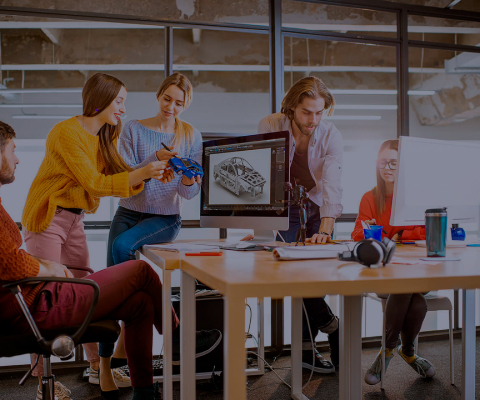
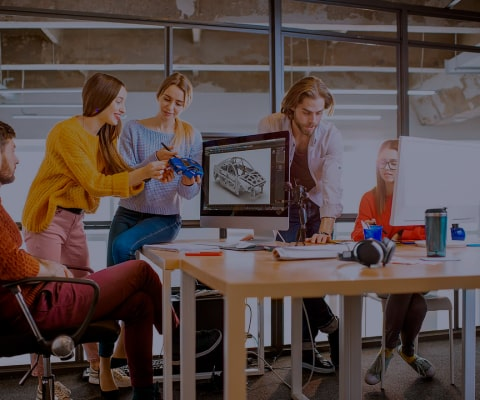
adds responsive background image

Changed region(s): [[0.3438, 0.39, 0.4375, 0.45], [0.75, 0.54, 0.8125, 0.6]]

diff --git a/css/main.min.css b/css/main.min.css
@@ -1,2 +1,2 @@
-body{font-family:'Roboto', sans-serif;background-color:#fff;color:#212121}.list{list-style:none;padding:0;margin:0}.link{text-decoration:none}img{display:block;max-width:100%;height:auto}p,h1,h2,h3,h4,h5,h6{margin-top:0;margin-bottom:0}ul{margin-top:0;margin-bottom:0;padding-left:0}.btn{font-weight:700;font-size:16px;line-height:1.875;letter-spacing:.06em;border:none;border-radius:4px;background-color:#2196f3;color:#fff;cursor:pointer}.menu-toggle{display:flex;align-items:center;margin:0;margin-left:auto;padding:0;background-color:transparent;cursor:pointer;border:none;border-radius:50%;outline:none}@media (min-width: 768px){.menu-toggle{display:none}}.menu-toggle:hover,.menu-toggle:focus{fill:#2196f3}.menu-container{position:fixed;top:0;left:0;width:100vw;height:100vh;padding:48px 40px;background-color:#ffffff;z-index:999;transform:translateX(-200%);transition:transform 250ms ease-in-out}.menu-container.is-open{transform:translateX(0)}.menu-container .menu-toggle{position:absolute;top:21px;right:25px;fill:#212121}.mobile-menu-nav{margin-bottom:302px}.mobile-menu-nav__item:not(:last-child){margin-bottom:32px}.mobile-menu-nav__link{font-weight:500;font-size:40px;line-height:1.175;letter-spacing:.02em;color:#212121}.mobile-menu-nav__link:hover,.mobile-menu-nav__link:focus{color:#2196f3}.mobile-menu-contacts{margin-bottom:64px}.mobile-menu-contacts__item:not(:last-child){margin-bottom:32px}.mobile-menu-contacts__tel{font-weight:500;font-size:34px;line-height:1.17647;letter-spacing:.02em;color:#2196f3}.mobile-menu-contacts__email{font-weight:500;font-size:24px;line-height:1.16667;letter-spacing:.02em;color:#757575}.mobile-menu-social{display:flex;flex-wrap:wrap;margin:-10px}.mobile-menu-social__item{padding:0 10px}.mobile-menu-social__item:not(:last-child){border-right:1px solid rgba(33,33,33,0.2)}.mobile-menu-social__link{font-weight:500;font-size:18px;line-height:1.22222;letter-spacing:.02em;color:#2196f3}.social__title{font-weight:700;font-size:14px;line-height:1.14286;letter-spacing:.03em;text-transform:uppercase;color:#fff;margin:0;margin-bottom:20px}.social__list{display:flex}@media screen and (max-width: 1199px){.social__list{justify-content:center}}.social__item+.social__item{margin-left:10px}.social__link{display:flex;justify-content:center;align-items:center;width:44px;height:44px;border-radius:50%;fill:#afb1b8;transition:background-color 250ms cubic-bezier(0.4, 0, 0.2, 1),fill 250ms cubic-bezier(0.4, 0, 0.2, 1)}.social__link:hover,.social__link:focus{fill:#fff;background-color:#2196f3}.social__link--bg{background-color:rgba(255,255,255,0.1)}.social__logo{fill:#fff}.container{margin-left:auto;margin-right:auto;padding-left:15px;padding-right:15px}@media screen and (min-width: 480px){.container{width:480px}}@media screen and (min-width: 768px){.container{width:768px}}@media screen and (min-width: 1200px){.container{width:1200px}}.section{padding-top:60px;padding-bottom:60px}@media screen and (min-width: 1200px){.section{padding-top:94px;padding-bottom:94px}}.section__title{color:#212121;text-align:center}@media screen and (max-width: 1199px){.section__title{margin-bottom:30px;font-weight:700;font-size:28px;line-height:1.17857;letter-spacing:.03em}}@media screen and (min-width: 1200px){.section__title{margin-bottom:50px;font-weight:700;font-size:36px;line-height:1.16667;letter-spacing:.03em}}.header{border-bottom:1px solid #ececec}@media screen and (max-width: 767px){.header{min-height:60px}}.header .container{display:flex;align-items:center}.header__navigation{display:flex;align-items:center}.logo{font-weight:700;font-size:26px;line-height:1.19231;letter-spacing:.03em;padding-top:20px;padding-bottom:20px;font-family:'Raleway', sans-serif}@media screen and (max-width: 1199px){.logo{font-weight:700;font-size:24px;line-height:1.16667;letter-spacing:.03em}}.header__logo{color:#000}.header__logo--accent{color:#2196f3}.footer__logo{color:#ffffff}.site-nav{display:flex;margin-left:93px}@media screen and (max-width: 767px){.site-nav{display:none}}.site-nav .current{color:#2196f3}.site-nav__link{font-weight:500;font-size:14px;line-height:1.14286;letter-spacing:.02em;display:block;color:#212121;padding-top:32px;padding-bottom:32px;transition:color 250ms cubic-bezier(0.4, 0, 0.2, 1)}.site-nav__link:hover,.site-nav__link:focus{color:#2196f3}.site-nav__link.current::after{content:'';position:absolute;bottom:-1.5px;left:0;display:block;width:100%;height:4px;border-radius:2px;background-color:#2196f3}.site-nav__items{position:relative}.site-nav__items:not(:last-child){margin-right:50px}.site-contacts{margin:0;margin-left:auto}@media screen and (max-width: 767px){.site-contacts{display:none}}@media screen and (min-width: 768px){.site-contacts{display:block}}@media screen and (min-width: 1200px){.site-contacts{display:flex}}.site-contacts__link{font-weight:500;font-size:14px;line-height:1.14286;letter-spacing:.02em;color:#757575;display:flex;align-items:center;padding-top:32px;padding-bottom:32px;transition:color 250ms cubic-bezier(0.4, 0, 0.2, 1)}.site-contacts__link:hover,.site-contacts__link:focus{color:#2196f3}@media screen and (max-width: 1199px){.site-contacts__link{padding-top:5px;padding-bottom:5px}}@media screen and (min-width: 1200px){.site-contacts__items:not(:last-child){margin-right:50px}}.site-contacts__icon{margin-right:10px;fill:currentColor}.hero{margin:0;margin-right:auto;margin-left:auto;padding-top:118px;padding-bottom:118px;max-width:1600px;text-align:center;background-image:linear-gradient(to right, rgba(47,48,58,0.4), rgba(47,48,58,0.4)),url(../images/hero-img-mob@1x.jpg);background-size:cover}@media (min-device-pixel-ratio: 2), (-webkit-min-device-pixel-ratio: 2), (min-resolution: 192dpi), (min-resolution: 2dppx){.hero{background-image:url(../images/hero-img-mob@2x.jpg)}}@media screen and (min-width: 1200px){.hero{padding-top:200px;padding-bottom:200px;background-image:linear-gradient(to right, rgba(47,48,58,0.4), rgba(47,48,58,0.4)),url(../images/hero-img-desk@1x.jpg)}}@media (min-device-pixel-ratio: 2), (-webkit-min-device-pixel-ratio: 2), (min-resolution: 192dpi), (min-resolution: 2dppx){.hero{background-image:url(../images/hero-img-desk@2x.jpg)}}.hero__title{font-weight:900;font-size:26px;line-height:1.61538;letter-spacing:.06em;color:#fff;text-transform:uppercase;margin:0 auto;margin-bottom:30px}@media screen and (min-width: 480px){.hero__title{width:360px}}@media screen and (min-width: 1200px){.hero__title{font-weight:900;font-size:44px;line-height:1.36364;letter-spacing:.06em;width:696px}}.hero__btn{padding:10px 32px}.backdrop{position:fixed;top:0;left:0;z-index:1;width:100%;height:100%;background-color:rgba(0,0,0,0.2)}.backdrop.is-hidden{opacity:0;pointer-events:none;visibility:hidden}.modal{position:absolute;top:50%;left:50%;transform:translate(-50%, -50%);width:90%;background-color:#fff;box-shadow:0px 1px 3px rgba(0,0,0,0.12),0px 1px 1px rgba(0,0,0,0.14),0px 2px 1px rgba(0,0,0,0.2);border-radius:4px}@media screen and (min-width: 480px), (min-width: 768px){.modal{max-width:450px}}@media screen and (min-width: 1200px){.modal{max-width:528px}}.modal__close-btn{position:absolute;top:8px;right:8px;display:flex;align-items:center;justify-content:center;margin:0;padding:0;width:30px;height:30px;border:1px solid rgba(0,0,0,0.1);border-radius:50%;cursor:pointer;background-color:unset;transition:fill 250ms cubic-bezier(0.4, 0, 0.2, 1)}.modal__close-btn:hover,.modal__close-btn:focus{fill:#2196f3}.modal-form{margin-left:auto;margin-right:auto;display:flex;flex-direction:column;justify-content:center;padding:40px}.modal-form__titel{font-weight:700;font-size:20px;line-height:1.15;letter-spacing:.03em;display:block;text-align:center;margin-bottom:12px}.modal-form__lable{font-weight:400;font-size:12px;line-height:1.16667;letter-spacing:.01em;display:block;font-style:normal;color:#757575;margin-bottom:4px}.form-wrap{position:relative;display:block;width:100%;margin-bottom:10px}.modal-form__input{display:block;width:100%;padding:11px 12px 11px 42px;border:1px solid rgba(33,33,33,0.2);box-sizing:border-box;border-radius:4px;transition:border-color 250ms cubic-bezier(0.4, 0, 0.2, 1)}.modal-form__input:focus{outline:none;border-color:#2196f3}.modal-form__icon{position:absolute;top:50%;left:12px;transform:translateY(-50%);fill:#212121;transition:fill 250ms cubic-bezier(0.4, 0, 0.2, 1)}.modal-form__input:focus+.modal-form__icon{fill:#2196f3}.modal-form__textarea{border:1px solid rgba(33,33,33,0.2);box-sizing:border-box;border-radius:4px;resize:none;width:100%;height:120px;margin-bottom:20px;padding:12px 16px}.modal-form__textarea::placeholder{font-weight:400;font-size:12px;line-height:1.16667;letter-spacing:.01em;color:rgba(117,117,117,0.5)}.modal-form__textarea:focus{outline:none;border-color:#2196f3}.modal-form__checkbox{display:flex;justify-content:center;align-items:center;margin-bottom:30px}.modal-form__checkbox-icon{min-width:16px;min-height:15px;border-radius:2px;border:2px solid #212121}.modal-form__checkbox-input:checked+.modal-form__checkbox-icon{border:none;background-color:#2196f3}.modal-form__checkbox-input{-webkit-appearance:none;-moz-appearance:none;appearance:none;position:absolute}.modal-form__checkbox-lable{font-weight:400;font-size:14px;line-height:1.71429;letter-spacing:.03em;color:#757575;margin-left:8px}.modal-form__checkbox-lable--accent{color:#2196f3}.form-btn{display:block;margin-right:auto;margin-left:auto;padding:10px 55px;box-shadow:0px 4px 4px rgba(0,0,0,0.15)}.quality{padding-top:60px;padding-bottom:60px}@media screen and (min-width: 1200px){.quality{padding-top:94px;padding-bottom:0}}.quality__title--hidden{position:absolute;width:1px;height:1px;margin:-1px;padding:0;overflow:hidden;border:0;clip:rect(0 0 0 0)}.quality__list{display:flex;flex-wrap:wrap}@media screen and (min-width: 768px){.quality__list{margin:-15px}}@media screen and (max-width: 767px){.quality__item:not(:last-child){margin-bottom:30px}}@media screen and (min-width: 768px){.quality__item{flex-basis:calc((100% - 2 * 30px) / 2);margin:15px}}@media screen and (min-width: 1200px){.quality__item{flex-basis:calc((100% - 4 * 30px) / 4);margin-left:15px}}.quality__container{height:120px;margin-bottom:30px;border-radius:4px;background-color:#f5f4fa;display:flex;justify-content:center;align-items:center;transition:box-shadow 250ms cubic-bezier(0.4, 0, 0.2, 1)}.quality__container:hover,.quality__container:focus{box-shadow:0px 4px 4px rgba(0,0,0,0.25)}.quality__title{margin:0;text-transform:uppercase;margin-bottom:10px}.quality__title{font-weight:700;font-size:14px;line-height:1.14286;letter-spacing:.03em;color:#212121}.quality__description{font-weight:400;font-size:14px;line-height:1.71429;letter-spacing:.03em;margin:0;color:#757575}@media screen and (max-width: 1199px){.activity{display:none}}.activity__list{display:flex;flex-wrap:wrap;margin-right:calc(-1 * 30px)}.activity__item{flex-basis:calc(100% / 3 - 30px);margin-right:30px}.activity__wrap{position:relative}.activity__wrap-text{font-weight:700;font-size:14px;line-height:1.14286;letter-spacing:.03em;position:absolute;left:0;bottom:0;width:100%;background-color:rgba(47,48,58,0.8);text-transform:uppercase;margin:0;padding-top:27px;padding-bottom:27px;text-align:center;color:#fff}.team__section{background-color:#f5f4fa}@media screen and (min-width: 768px){.team__list{display:flex;flex-wrap:wrap;margin:-15px}}.team__item{background-color:#fff;box-shadow:0px 1px 3px rgba(0,0,0,0.12),0px 1px 1px rgba(0,0,0,0.14),0px 2px 1px rgba(0,0,0,0.2);border-radius:0px 0px 4px 4px}@media screen and (max-width: 767px){.team__item{margin-bottom:30px}}@media screen and (min-width: 768px){.team__item{flex-basis:calc((100% - 2 * 30px) / 2);margin:15px}}@media screen and (min-width: 1200px){.team__item{flex-basis:calc((100% - 4 * 30px) / 4);margin:15px}}.team__name{font-weight:500;font-size:16px;line-height:1.1875;letter-spacing:.03em;margin:0;padding-top:30px;padding-bottom:10px;color:#212121;text-align:center}.team__post{font-weight:400;font-size:16px;line-height:1.1875;letter-spacing:.03em;margin:0;padding-bottom:16px;color:#757575;text-align:center}.client__list{margin:-15px;display:flex;flex-wrap:wrap}@media screen and (max-width: 1199px){.client__list{margin:-15px;flex-wrap:wrap}}@media screen and (max-width: 767px){.client__item{margin:15px;flex-basis:calc(100% / 2 - 30px)}}@media screen and (min-width: 768px) and (max-width: 1199px){.client__item{margin:15px;flex-basis:calc(100% / 3 - 30px)}}@media screen and (min-width: 1200px){.client__item:not(:last-child){margin-right:30px}}.client__link{display:flex;justify-content:center;align-items:center;height:92px;color:#afb1b8;border:1px solid #afb1b8;border-radius:4px;transition:color 250ms cubic-bezier(0.4, 0, 0.2, 1),border-color 250ms cubic-bezier(0.4, 0, 0.2, 1)}.client__link:hover,.client__link:focus{color:#2196f3;border-color:#2196f3}@media screen and (min-width: 480px){.client__link{width:210px}}@media screen and (min-width: 768px){.client__link{width:226px}}@media screen and (min-width: 1200px){.client__link{width:170px}}.client__icon{fill:currentColor}.footer{background-color:#2f303a}.footer .container{display:flex;padding-bottom:60px}@media screen and (max-width: 767px){.footer .container{display:block}}@media screen and (min-width: 768px){.footer .container{display:flex;flex-wrap:wrap}}@media screen and (min-width: 1200px){.footer .container{padding-bottom:0}}.address-block{padding:60px 0 60px 0}@media screen and (max-width: 1199px){.address-block{text-align:center;margin:0 auto}}.address{margin-top:20px}.address__item:not(:last-child){margin-bottom:8px}@media screen and (min-width: 1200px){.address__item:not(:last-child){margin-bottom:9px}}.address__link,.address__link--transparency{font-weight:400;font-size:14px;line-height:1.71429;letter-spacing:.03em;margin-top:20px;transition:color 250ms cubic-bezier(0.4, 0, 0.2, 1)}.address__link:hover,.address__link--transparency:hover,.address__link:focus,.address__link--transparency:focus{color:#2196f3}.address__link{color:#fff}.address__link--transparency{color:rgba(255,255,255,0.6)}.social--position{display:flex;justify-content:center;padding-bottom:30px}.social-footer{padding-bottom:60px;text-align:center}@media screen and (min-width: 768px) and (max-width: 1199px){.social-footer{margin:0 auto;padding-top:65px;padding-bottom:0}}@media screen and (min-width: 1200px){.social-footer{padding-top:72px;margin-left:70px}}@media screen and (max-width: 1199px){.subscribe{margin:0 auto;text-align:center;padding-top:0}}@media screen and (min-width: 1200px){.subscribe{padding-top:72px;margin-left:93px}}.subscribe__lable{font-weight:400;font-size:16px;line-height:1.25;letter-spacing:.03em;width:100%;color:rgba(255,255,255,0.6);opacity:1;transition:opacity 250ms cubic-bezier(0.4, 0, 0.2, 1)}.subscribe__input:focus+.subscribe__lable,.subscribe__input:not(:placeholder-shown)+.subscribe__lable{opacity:0}@media screen and (min-width: 780px){.subscribe__lable{width:450px}}@media screen and (min-width: 1200px){.subscribe__lable{width:358px;display:inline-flex}}.subscribe__input{padding:15px 16px;margin-bottom:20px;width:100%;border:1px solid rgba(255,255,255,0.3);box-sizing:border-box;border-radius:4px;background-color:#2f303a;color:rgba(255,255,255,0.6)}.subscribe__btn{display:inline-flex;align-items:center;padding:10px 29px}@media screen and (min-width: 1200px){.subscribe__btn{margin-left:12px}}.subcribe__logo{margin-left:10px}.filters__list{display:flex;flex-wrap:wrap;justify-content:center;list-style:none;padding:0;margin:0;margin-bottom:50px}.filters__item+.filters__item{margin-left:8px}.filters__btn{font-weight:500;font-size:16px;line-height:1.625;letter-spacing:.03em;padding:6px 22px;color:#212121;border:none;border-radius:4px;background:#f5f4fa;transition:background-color 250ms cubic-bezier(0.4, 0, 0.2, 1),color 250ms cubic-bezier(0.4, 0, 0.2, 1),box-shadow 250ms cubic-bezier(0.4, 0, 0.2, 1)}.filters__btn:hover,.filters__btn:focus{background-color:#2196f3;color:#fff;box-shadow:0px 3px 1px rgba(0,0,0,0.1),0px 1px 2px rgba(0,0,0,0.08),0px 2px 2px rgba(0,0,0,0.12)}.projects__list{display:block}@media screen and (min-width: 768px){.projects__list{display:flex;flex-wrap:wrap;margin:-15px}}.projects__item{transition:box-shadow 250ms cubic-bezier(0.4, 0, 0.2, 1)}.projects__item:not(:last-child){margin-bottom:30px}.projects__item:hover,.projects__item:focus{box-shadow:0px 1px 1px rgba(0,0,0,0.12),0px 4px 4px rgba(0,0,0,0.06),1px 4px 6px rgba(0,0,0,0.16)}@media screen and (min-width: 768px){.projects__item{flex-basis:calc((100% - 2 * 30px) / 2);margin:15px}}@media screen and (min-width: 1200px){.projects__item{flex-basis:calc((100% - 3 * 30px) / 3);margin:15px}}.project-thumb{position:relative;overflow:hidden}.overlay{position:absolute;bottom:0;left:0;width:100%;height:100%;background-color:rgba(33,150,243,0.9);transform:translateY(100%);transition:transform 250ms cubic-bezier(0.4, 0, 0.2, 1)}.projects__item:hover .overlay,.projects__item:focus .overlay{transform:translateY(0)}.overlay__text{font-weight:400;font-size:18px;line-height:1.55556;letter-spacing:.03em;margin:0;padding:63px 24px 63px 24px;color:#fff}.thumb-content{padding:20px 24px;border-left:1px solid #eee;border-bottom:1px solid #eee;border-right:1px solid #eee}.thumb-content__title{font-weight:700;font-size:18px;line-height:2;letter-spacing:.06em;margin:0;margin-bottom:4px;color:#212121}.thumb-content__text{font-weight:400;font-size:16px;line-height:1.875;letter-spacing:.03em;margin:0;color:#757575}
+body{font-family:'Roboto', sans-serif;background-color:#fff;color:#212121}.list{list-style:none;padding:0;margin:0}.link{text-decoration:none}img{display:block;max-width:100%;height:auto}p,h1,h2,h3,h4,h5,h6{margin-top:0;margin-bottom:0}ul{margin-top:0;margin-bottom:0;padding-left:0}.btn{font-weight:700;font-size:16px;line-height:1.875;letter-spacing:.06em;border:none;border-radius:4px;background-color:#2196f3;color:#fff;cursor:pointer}.menu-toggle{display:flex;align-items:center;margin:0;margin-left:auto;padding:0;background-color:transparent;cursor:pointer;border:none;border-radius:50%;outline:none}@media (min-width: 768px){.menu-toggle{display:none}}.menu-toggle:hover,.menu-toggle:focus{fill:#2196f3}.menu-container{position:fixed;top:0;left:0;width:100vw;height:100vh;padding:48px 40px;background-color:#ffffff;z-index:999;transform:translateX(-200%);transition:transform 250ms ease-in-out}.menu-container.is-open{transform:translateX(0)}.menu-container .menu-toggle{position:absolute;top:21px;right:25px;fill:#212121}.mobile-menu-nav{margin-bottom:302px}.mobile-menu-nav__item:not(:last-child){margin-bottom:32px}.mobile-menu-nav__link{font-weight:500;font-size:40px;line-height:1.175;letter-spacing:.02em;color:#212121}.mobile-menu-nav__link:hover,.mobile-menu-nav__link:focus{color:#2196f3}.mobile-menu-contacts{margin-bottom:64px}.mobile-menu-contacts__item:not(:last-child){margin-bottom:32px}.mobile-menu-contacts__tel{font-weight:500;font-size:34px;line-height:1.17647;letter-spacing:.02em;color:#2196f3}.mobile-menu-contacts__email{font-weight:500;font-size:24px;line-height:1.16667;letter-spacing:.02em;color:#757575}.mobile-menu-social{display:flex;flex-wrap:wrap;margin:-10px}.mobile-menu-social__item{padding:0 10px}.mobile-menu-social__item:not(:last-child){border-right:1px solid rgba(33,33,33,0.2)}.mobile-menu-social__link{font-weight:500;font-size:18px;line-height:1.22222;letter-spacing:.02em;color:#2196f3}.social__title{font-weight:700;font-size:14px;line-height:1.14286;letter-spacing:.03em;text-transform:uppercase;color:#fff;margin:0;margin-bottom:20px}.social__list{display:flex}@media screen and (max-width: 1199px){.social__list{justify-content:center}}.social__item+.social__item{margin-left:10px}.social__link{display:flex;justify-content:center;align-items:center;width:44px;height:44px;border-radius:50%;fill:#afb1b8;transition:background-color 250ms cubic-bezier(0.4, 0, 0.2, 1),fill 250ms cubic-bezier(0.4, 0, 0.2, 1)}.social__link:hover,.social__link:focus{fill:#fff;background-color:#2196f3}.social__link--bg{background-color:rgba(255,255,255,0.1)}.social__logo{fill:#fff}.container{margin-left:auto;margin-right:auto;padding-left:15px;padding-right:15px}@media screen and (min-width: 480px){.container{width:480px}}@media screen and (min-width: 768px){.container{width:768px}}@media screen and (min-width: 1200px){.container{width:1200px}}.section{padding-top:60px;padding-bottom:60px}@media screen and (min-width: 1200px){.section{padding-top:94px;padding-bottom:94px}}.section__title{color:#212121;text-align:center}@media screen and (max-width: 1199px){.section__title{margin-bottom:30px;font-weight:700;font-size:28px;line-height:1.17857;letter-spacing:.03em}}@media screen and (min-width: 1200px){.section__title{margin-bottom:50px;font-weight:700;font-size:36px;line-height:1.16667;letter-spacing:.03em}}.header{border-bottom:1px solid #ececec}@media screen and (max-width: 767px){.header{min-height:60px}}.header .container{display:flex;align-items:center}.header__navigation{display:flex;align-items:center}.logo{font-weight:700;font-size:26px;line-height:1.19231;letter-spacing:.03em;padding-top:20px;padding-bottom:20px;font-family:'Raleway', sans-serif}@media screen and (max-width: 1199px){.logo{font-weight:700;font-size:24px;line-height:1.16667;letter-spacing:.03em}}.header__logo{color:#000}.header__logo--accent{color:#2196f3}.footer__logo{color:#ffffff}.site-nav{display:flex;margin-left:93px}@media screen and (max-width: 767px){.site-nav{display:none}}.site-nav .current{color:#2196f3}.site-nav__link{font-weight:500;font-size:14px;line-height:1.14286;letter-spacing:.02em;display:block;color:#212121;padding-top:32px;padding-bottom:32px;transition:color 250ms cubic-bezier(0.4, 0, 0.2, 1)}.site-nav__link:hover,.site-nav__link:focus{color:#2196f3}.site-nav__link.current::after{content:'';position:absolute;bottom:-1.5px;left:0;display:block;width:100%;height:4px;border-radius:2px;background-color:#2196f3}.site-nav__items{position:relative}.site-nav__items:not(:last-child){margin-right:50px}.site-contacts{margin:0;margin-left:auto}@media screen and (max-width: 767px){.site-contacts{display:none}}@media screen and (min-width: 768px){.site-contacts{display:block}}@media screen and (min-width: 1200px){.site-contacts{display:flex}}.site-contacts__link{font-weight:500;font-size:14px;line-height:1.14286;letter-spacing:.02em;color:#757575;display:flex;align-items:center;padding-top:32px;padding-bottom:32px;transition:color 250ms cubic-bezier(0.4, 0, 0.2, 1)}.site-contacts__link:hover,.site-contacts__link:focus{color:#2196f3}@media screen and (max-width: 1199px){.site-contacts__link{padding-top:5px;padding-bottom:5px}}@media screen and (min-width: 1200px){.site-contacts__items:not(:last-child){margin-right:50px}}.site-contacts__icon{margin-right:10px;fill:currentColor}.hero{margin:0;margin-right:auto;margin-left:auto;padding-top:118px;padding-bottom:118px;max-width:1600px;text-align:center;background-image:linear-gradient(to right, rgba(47,48,58,0.4), rgba(47,48,58,0.4)),url(../images/hero-img-mob@1x.jpg);background-size:cover}@media screen and (min-device-pixel-ratio: 2), (-webkit-min-device-pixel-ratio: 2), (min-resolution: 192dpi), (min-resolution: 2dppx){.hero{background-image:url(../images/hero-img-mob@2x.jpg)}}@media screen and (min-width: 768px){.hero{background-image:linear-gradient(to right, rgba(47,48,58,0.4), rgba(47,48,58,0.4)),url(../images/hero-img-tab@1x.jpg)}}@media screen and (min-width: 768px) and (min-device-pixel-ratio: 2), screen and (min-width: 768px) and (-webkit-min-device-pixel-ratio: 2), screen and (min-width: 768px) and (min-resolution: 192dpi), screen and (min-width: 768px) and (min-resolution: 2dppx){.hero{background-image:url(../images/hero-img-tab@2x.jpg)}}@media screen and (min-width: 1200px){.hero{padding-top:200px;padding-bottom:200px;background-image:linear-gradient(to right, rgba(47,48,58,0.4), rgba(47,48,58,0.4)),url(../images/hero-img-desk@1x.jpg)}}@media screen and (min-width: 1200px) and (min-device-pixel-ratio: 2), screen and (min-width: 1200px) and (-webkit-min-device-pixel-ratio: 2), screen and (min-width: 1200px) and (min-resolution: 192dpi), screen and (min-width: 1200px) and (min-resolution: 2dppx){.hero{background-image:url(../images/hero-img-desk@2x.jpg)}}.hero__title{font-weight:900;font-size:26px;line-height:1.61538;letter-spacing:.06em;color:#fff;text-transform:uppercase;margin:0 auto;margin-bottom:30px}@media screen and (min-width: 480px){.hero__title{width:360px}}@media screen and (min-width: 1200px){.hero__title{font-weight:900;font-size:44px;line-height:1.36364;letter-spacing:.06em;width:696px}}.hero__btn{padding:10px 32px}.backdrop{position:fixed;top:0;left:0;z-index:1;width:100%;height:100%;background-color:rgba(0,0,0,0.2)}.backdrop.is-hidden{opacity:0;pointer-events:none;visibility:hidden}.modal{position:absolute;top:50%;left:50%;transform:translate(-50%, -50%);width:90%;background-color:#fff;box-shadow:0px 1px 3px rgba(0,0,0,0.12),0px 1px 1px rgba(0,0,0,0.14),0px 2px 1px rgba(0,0,0,0.2);border-radius:4px}@media screen and (min-width: 480px), (min-width: 768px){.modal{max-width:450px}}@media screen and (min-width: 1200px){.modal{max-width:528px}}.modal__close-btn{position:absolute;top:8px;right:8px;display:flex;align-items:center;justify-content:center;margin:0;padding:0;width:30px;height:30px;border:1px solid rgba(0,0,0,0.1);border-radius:50%;cursor:pointer;background-color:unset;transition:fill 250ms cubic-bezier(0.4, 0, 0.2, 1)}.modal__close-btn:hover,.modal__close-btn:focus{fill:#2196f3}.modal-form{margin-left:auto;margin-right:auto;display:flex;flex-direction:column;justify-content:center;padding:40px}.modal-form__titel{font-weight:700;font-size:20px;line-height:1.15;letter-spacing:.03em;display:block;text-align:center;margin-bottom:12px}.modal-form__lable{font-weight:400;font-size:12px;line-height:1.16667;letter-spacing:.01em;display:block;font-style:normal;color:#757575;margin-bottom:4px}.form-wrap{position:relative;display:block;width:100%;margin-bottom:10px}.modal-form__input{display:block;width:100%;padding:11px 12px 11px 42px;border:1px solid rgba(33,33,33,0.2);box-sizing:border-box;border-radius:4px;transition:border-color 250ms cubic-bezier(0.4, 0, 0.2, 1)}.modal-form__input:focus{outline:none;border-color:#2196f3}.modal-form__icon{position:absolute;top:50%;left:12px;transform:translateY(-50%);fill:#212121;transition:fill 250ms cubic-bezier(0.4, 0, 0.2, 1)}.modal-form__input:focus+.modal-form__icon{fill:#2196f3}.modal-form__textarea{border:1px solid rgba(33,33,33,0.2);box-sizing:border-box;border-radius:4px;resize:none;width:100%;height:120px;margin-bottom:20px;padding:12px 16px}.modal-form__textarea::placeholder{font-weight:400;font-size:12px;line-height:1.16667;letter-spacing:.01em;color:rgba(117,117,117,0.5)}.modal-form__textarea:focus{outline:none;border-color:#2196f3}.modal-form__checkbox{display:flex;justify-content:center;align-items:center;margin-bottom:30px}.modal-form__checkbox-icon{min-width:16px;min-height:15px;border-radius:2px;border:2px solid #212121}.modal-form__checkbox-input:checked+.modal-form__checkbox-icon{border:none;background-color:#2196f3}.modal-form__checkbox-input{-webkit-appearance:none;-moz-appearance:none;appearance:none;position:absolute}.modal-form__checkbox-lable{font-weight:400;font-size:14px;line-height:1.71429;letter-spacing:.03em;color:#757575;margin-left:8px}.modal-form__checkbox-lable--accent{color:#2196f3}.form-btn{display:block;margin-right:auto;margin-left:auto;padding:10px 55px;box-shadow:0px 4px 4px rgba(0,0,0,0.15)}.quality{padding-top:60px;padding-bottom:60px}@media screen and (min-width: 1200px){.quality{padding-top:94px;padding-bottom:0}}.quality__title--hidden{position:absolute;width:1px;height:1px;margin:-1px;padding:0;overflow:hidden;border:0;clip:rect(0 0 0 0)}.quality__list{display:flex;flex-wrap:wrap}@media screen and (min-width: 768px){.quality__list{margin:-15px}}@media screen and (max-width: 767px){.quality__item:not(:last-child){margin-bottom:30px}}@media screen and (min-width: 768px){.quality__item{flex-basis:calc((100% - 2 * 30px) / 2);margin:15px}}@media screen and (min-width: 1200px){.quality__item{flex-basis:calc((100% - 4 * 30px) / 4);margin-left:15px}}.quality__container{height:120px;margin-bottom:30px;border-radius:4px;background-color:#f5f4fa;display:flex;justify-content:center;align-items:center;transition:box-shadow 250ms cubic-bezier(0.4, 0, 0.2, 1)}.quality__container:hover,.quality__container:focus{box-shadow:0px 4px 4px rgba(0,0,0,0.25)}.quality__title{margin:0;text-transform:uppercase;margin-bottom:10px}.quality__title{font-weight:700;font-size:14px;line-height:1.14286;letter-spacing:.03em;color:#212121}.quality__description{font-weight:400;font-size:14px;line-height:1.71429;letter-spacing:.03em;margin:0;color:#757575}@media screen and (max-width: 1199px){.activity{display:none}}.activity__list{display:flex;flex-wrap:wrap;margin-right:calc(-1 * 30px)}.activity__item{flex-basis:calc(100% / 3 - 30px);margin-right:30px}.activity__wrap{position:relative}.activity__wrap-text{font-weight:700;font-size:14px;line-height:1.14286;letter-spacing:.03em;position:absolute;left:0;bottom:0;width:100%;background-color:rgba(47,48,58,0.8);text-transform:uppercase;margin:0;padding-top:27px;padding-bottom:27px;text-align:center;color:#fff}.team__section{background-color:#f5f4fa}@media screen and (min-width: 768px){.team__list{display:flex;flex-wrap:wrap;margin:-15px}}.team__item{background-color:#fff;box-shadow:0px 1px 3px rgba(0,0,0,0.12),0px 1px 1px rgba(0,0,0,0.14),0px 2px 1px rgba(0,0,0,0.2);border-radius:0px 0px 4px 4px}@media screen and (max-width: 767px){.team__item{margin-bottom:30px}}@media screen and (min-width: 768px){.team__item{flex-basis:calc((100% - 2 * 30px) / 2);margin:15px}}@media screen and (min-width: 1200px){.team__item{flex-basis:calc((100% - 4 * 30px) / 4);margin:15px}}.team__name{font-weight:500;font-size:16px;line-height:1.1875;letter-spacing:.03em;margin:0;padding-top:30px;padding-bottom:10px;color:#212121;text-align:center}.team__post{font-weight:400;font-size:16px;line-height:1.1875;letter-spacing:.03em;margin:0;padding-bottom:16px;color:#757575;text-align:center}.client__list{margin:-15px;display:flex;flex-wrap:wrap}@media screen and (max-width: 1199px){.client__list{margin:-15px;flex-wrap:wrap}}@media screen and (max-width: 767px){.client__item{margin:15px;flex-basis:calc(100% / 2 - 30px)}}@media screen and (min-width: 768px) and (max-width: 1199px){.client__item{margin:15px;flex-basis:calc(100% / 3 - 30px)}}@media screen and (min-width: 1200px){.client__item:not(:last-child){margin-right:30px}}.client__link{display:flex;justify-content:center;align-items:center;height:92px;color:#afb1b8;border:1px solid #afb1b8;border-radius:4px;transition:color 250ms cubic-bezier(0.4, 0, 0.2, 1),border-color 250ms cubic-bezier(0.4, 0, 0.2, 1)}.client__link:hover,.client__link:focus{color:#2196f3;border-color:#2196f3}@media screen and (min-width: 480px){.client__link{width:210px}}@media screen and (min-width: 768px){.client__link{width:226px}}@media screen and (min-width: 1200px){.client__link{width:170px}}.client__icon{fill:currentColor}.footer{background-color:#2f303a}.footer .container{display:flex;padding-bottom:60px}@media screen and (max-width: 767px){.footer .container{display:block}}@media screen and (min-width: 768px){.footer .container{display:flex;flex-wrap:wrap}}@media screen and (min-width: 1200px){.footer .container{padding-bottom:0}}.address-block{padding:60px 0 60px 0}@media screen and (max-width: 1199px){.address-block{text-align:center;margin:0 auto}}.address{margin-top:20px}.address__item:not(:last-child){margin-bottom:8px}@media screen and (min-width: 1200px){.address__item:not(:last-child){margin-bottom:9px}}.address__link,.address__link--transparency{font-weight:400;font-size:14px;line-height:1.71429;letter-spacing:.03em;margin-top:20px;transition:color 250ms cubic-bezier(0.4, 0, 0.2, 1)}.address__link:hover,.address__link--transparency:hover,.address__link:focus,.address__link--transparency:focus{color:#2196f3}.address__link{color:#fff}.address__link--transparency{color:rgba(255,255,255,0.6)}.social--position{display:flex;justify-content:center;padding-bottom:30px}.social-footer{padding-bottom:60px;text-align:center}@media screen and (min-width: 768px) and (max-width: 1199px){.social-footer{margin:0 auto;padding-top:65px;padding-bottom:0}}@media screen and (min-width: 1200px){.social-footer{padding-top:72px;margin-left:70px}}@media screen and (max-width: 1199px){.subscribe{margin:0 auto;text-align:center;padding-top:0}}@media screen and (min-width: 1200px){.subscribe{padding-top:72px;margin-left:93px}}.subscribe__lable{font-weight:400;font-size:16px;line-height:1.25;letter-spacing:.03em;width:100%;color:rgba(255,255,255,0.6);opacity:1;transition:opacity 250ms cubic-bezier(0.4, 0, 0.2, 1)}.subscribe__input:focus+.subscribe__lable,.subscribe__input:not(:placeholder-shown)+.subscribe__lable{opacity:0}@media screen and (min-width: 780px){.subscribe__lable{width:450px}}@media screen and (min-width: 1200px){.subscribe__lable{width:358px;display:inline-flex}}.subscribe__input{padding:15px 16px;margin-bottom:20px;width:100%;border:1px solid rgba(255,255,255,0.3);box-sizing:border-box;border-radius:4px;background-color:#2f303a;color:rgba(255,255,255,0.6)}.subscribe__btn{display:inline-flex;align-items:center;padding:10px 29px}@media screen and (min-width: 1200px){.subscribe__btn{margin-left:12px}}.subcribe__logo{margin-left:10px}.filters__list{display:flex;flex-wrap:wrap;justify-content:center;list-style:none;padding:0;margin:0;margin-bottom:50px}.filters__item+.filters__item{margin-left:8px}.filters__btn{font-weight:500;font-size:16px;line-height:1.625;letter-spacing:.03em;padding:6px 22px;color:#212121;border:none;border-radius:4px;background:#f5f4fa;transition:background-color 250ms cubic-bezier(0.4, 0, 0.2, 1),color 250ms cubic-bezier(0.4, 0, 0.2, 1),box-shadow 250ms cubic-bezier(0.4, 0, 0.2, 1)}.filters__btn:hover,.filters__btn:focus{background-color:#2196f3;color:#fff;box-shadow:0px 3px 1px rgba(0,0,0,0.1),0px 1px 2px rgba(0,0,0,0.08),0px 2px 2px rgba(0,0,0,0.12)}.projects__list{display:block}@media screen and (min-width: 768px){.projects__list{display:flex;flex-wrap:wrap;margin:-15px}}.projects__item{transition:box-shadow 250ms cubic-bezier(0.4, 0, 0.2, 1)}.projects__item:not(:last-child){margin-bottom:30px}.projects__item:hover,.projects__item:focus{box-shadow:0px 1px 1px rgba(0,0,0,0.12),0px 4px 4px rgba(0,0,0,0.06),1px 4px 6px rgba(0,0,0,0.16)}@media screen and (min-width: 768px){.projects__item{flex-basis:calc((100% - 2 * 30px) / 2);margin:15px}}@media screen and (min-width: 1200px){.projects__item{flex-basis:calc((100% - 3 * 30px) / 3);margin:15px}}.project-thumb{position:relative;overflow:hidden}.overlay{position:absolute;bottom:0;left:0;width:100%;height:100%;background-color:rgba(33,150,243,0.9);transform:translateY(100%);transition:transform 250ms cubic-bezier(0.4, 0, 0.2, 1)}.projects__item:hover .overlay,.projects__item:focus .overlay{transform:translateY(0)}.overlay__text{font-weight:400;font-size:18px;line-height:1.55556;letter-spacing:.03em;margin:0;padding:63px 24px 63px 24px;color:#fff}.thumb-content{padding:20px 24px;border-left:1px solid #eee;border-bottom:1px solid #eee;border-right:1px solid #eee}.thumb-content__title{font-weight:700;font-size:18px;line-height:2;letter-spacing:.06em;margin:0;margin-bottom:4px;color:#212121}.thumb-content__text{font-weight:400;font-size:16px;line-height:1.875;letter-spacing:.03em;margin:0;color:#757575}
 /*# sourceMappingURL=main.min.css.map */

diff --git a/css/main.css b/css/main.css
@@ -449,9 +449,21 @@ ul {
   background-size: cover;
 }
 
-@media (min-device-pixel-ratio: 2), (-webkit-min-device-pixel-ratio: 2), (min-resolution: 192dpi), (min-resolution: 2dppx) {
+@media screen and (min-device-pixel-ratio: 2), (-webkit-min-device-pixel-ratio: 2), (min-resolution: 192dpi), (min-resolution: 2dppx) {
   .hero {
     background-image: url(../images/hero-img-mob@2x.jpg);
+  }
+}
+
+@media screen and (min-width: 768px) {
+  .hero {
+    background-image: linear-gradient(to right, rgba(47, 48, 58, 0.4), rgba(47, 48, 58, 0.4)), url(../images/hero-img-tab@1x.jpg);
+  }
+}
+
+@media screen and (min-width: 768px) and (min-device-pixel-ratio: 2), screen and (min-width: 768px) and (-webkit-min-device-pixel-ratio: 2), screen and (min-width: 768px) and (min-resolution: 192dpi), screen and (min-width: 768px) and (min-resolution: 2dppx) {
+  .hero {
+    background-image: url(../images/hero-img-tab@2x.jpg);
   }
 }
 
@@ -463,7 +475,7 @@ ul {
   }
 }
 
-@media (min-device-pixel-ratio: 2), (-webkit-min-device-pixel-ratio: 2), (min-resolution: 192dpi), (min-resolution: 2dppx) {
+@media screen and (min-width: 1200px) and (min-device-pixel-ratio: 2), screen and (min-width: 1200px) and (-webkit-min-device-pixel-ratio: 2), screen and (min-width: 1200px) and (min-resolution: 192dpi), screen and (min-width: 1200px) and (min-resolution: 2dppx) {
   .hero {
     background-image: url(../images/hero-img-desk@2x.jpg);
   }

diff --git a/sass/layout/_hero.scss b/sass/layout/_hero.scss
@@ -10,11 +10,23 @@
     url(../images/hero-img-mob@1x.jpg);
   background-size: cover;
 
-  @media (min-device-pixel-ratio: 2),
+  @media screen and (min-device-pixel-ratio: 2),
     (-webkit-min-device-pixel-ratio: 2),
     (min-resolution: 192dpi),
     (min-resolution: 2dppx) {
     background-image: url(../images/hero-img-mob@2x.jpg);
+  }
+
+  @media screen and (min-width: 768px) {
+    background-image: linear-gradient(to right, $hero-gradient, $hero-gradient),
+      url(../images/hero-img-tab@1x.jpg);
+
+    @media screen and (min-device-pixel-ratio: 2),
+      (-webkit-min-device-pixel-ratio: 2),
+      (min-resolution: 192dpi),
+      (min-resolution: 2dppx) {
+      background-image: url(../images/hero-img-tab@2x.jpg);
+    }
   }
 
   @media screen and (min-width: 1200px) {
@@ -22,13 +34,13 @@
     padding-bottom: 200px;
     background-image: linear-gradient(to right, $hero-gradient, $hero-gradient),
       url(../images/hero-img-desk@1x.jpg);
-  }
 
-  @media (min-device-pixel-ratio: 2),
-    (-webkit-min-device-pixel-ratio: 2),
-    (min-resolution: 192dpi),
-    (min-resolution: 2dppx) {
-    background-image: url(../images/hero-img-desk@2x.jpg);
+    @media screen and (min-device-pixel-ratio: 2),
+      (-webkit-min-device-pixel-ratio: 2),
+      (min-resolution: 192dpi),
+      (min-resolution: 2dppx) {
+      background-image: url(../images/hero-img-desk@2x.jpg);
+    }
   }
 }
 .hero__title {
